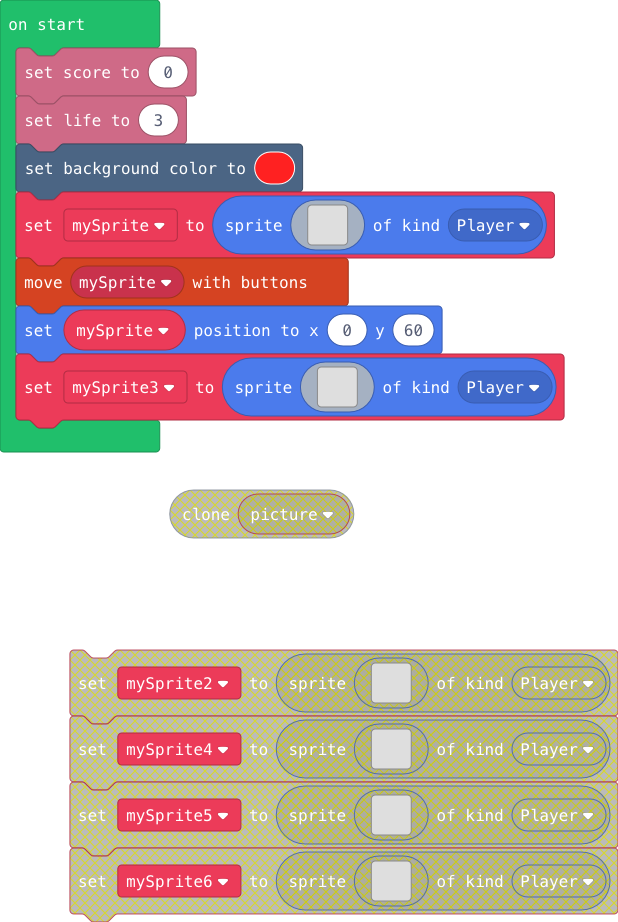
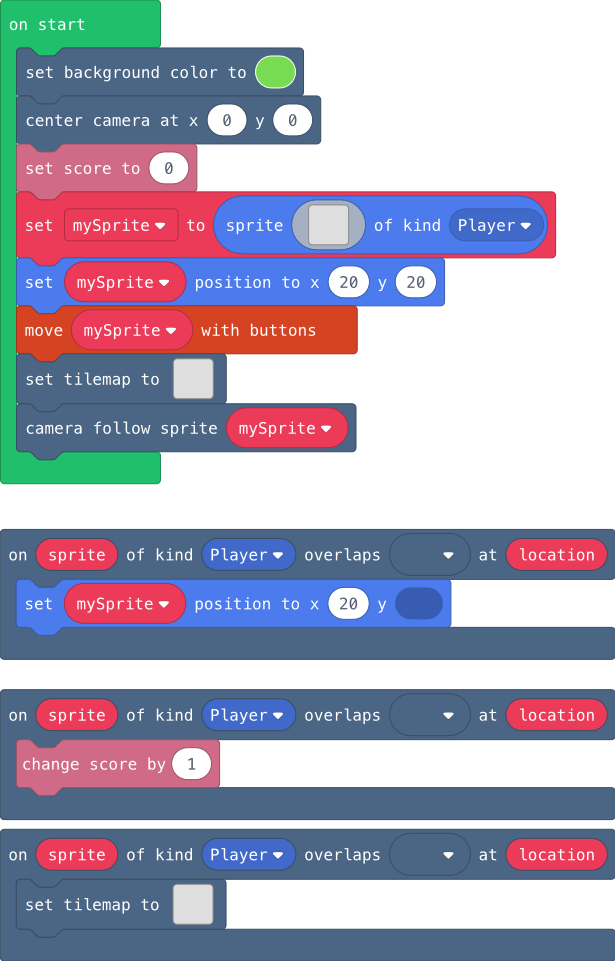
Cracked on with level 1.

diff --git a/main.ts b/main.ts
@@ -1,18 +1,90 @@
+namespace myTiles {
+    //% blockIdentity=images._tile
+    export const tile0 = img`
+. . . . . . . . . . . . . . . . 
+. . . . . . . . . . . . . . . . 
+. . . . . . . . . . . . . . . . 
+. . . . . . . . . . . . . . . . 
+. . . . . . . . . . . . . . . . 
+. . . . . . . . . . . . . . . . 
+. . . . . . . . . . . . . . . . 
+. . . . . . . . . . . . . . . . 
+. . . . . . . . . . . . . . . . 
+. . . . . . . . . . . . . . . . 
+. . . . . . . . . . . . . . . . 
+. . . . . . . . . . . . . . . . 
+. . . . . . . . . . . . . . . . 
+. . . . . . . . . . . . . . . . 
+. . . . . . . . . . . . . . . . 
+. . . . . . . . . . . . . . . . 
+`
+}
+scene.onOverlapTile(SpriteKind.Player, sprites.builtin.brick, function (sprite, location) {
+    mySprite.setPosition(20, 0)
+})
+scene.onOverlapTile(SpriteKind.Player, sprites.castle.shrub, function (sprite, location) {
+    tiles.setTilemap(tiles.createTilemap(
+            hex`1000100000000000000000000000000000000000000000000000000000000000000000000000000000000000000000000000000000000000000000000000000000000000000000000000000000000000000000000000000000000000000000000000000000000000000000000000000000000000000000000000000000000000000000000000000000000000000000000000000000000000000000000000000000000000000000000000000000000000000000000000000000000000000000000000000000000000000000000000000000000000000000000000000000000000000000000000000000000000000000000000000000000000000000000000000000000000`,
+            img`
+. . . . . . . . . . . . . . . . 
+. . . . . . . . . . . . . . . . 
+. . . . . . . . . . . . . . . . 
+. . . . . . . . . . . . . . . . 
+. . . . . . . . . . . . . . . . 
+. . . . . . . . . . . . . . . . 
+. . . . . . . . . . . . . . . . 
+. . . . . . . . . . . . . . . . 
+. . . . . . . . . . . . . . . . 
+. . . . . . . . . . . . . . . . 
+. . . . . . . . . . . . . . . . 
+. . . . . . . . . . . . . . . . 
+. . . . . . . . . . . . . . . . 
+. . . . . . . . . . . . . . . . 
+. . . . . . . . . . . . . . . . 
+. . . . . . . . . . . . . . . . 
+`,
+            [myTiles.tile0],
+            TileScale.Sixteen
+        ))
+})
+scene.onOverlapTile(SpriteKind.Player, sprites.builtin.coral5, function (sprite, location) {
+    info.changeScoreBy(1)
+})
+let mySprite: Sprite = null
+scene.setBackgroundColor(7)
+scene.centerCameraAt(0, 0)
 info.setScore(0)
-info.setLife(3)
-scene.setBackgroundColor(2)
-let mySprite = sprites.create(img`
-. . 6 6 6 6 . . 
-. 6 1 4 4 4 6 . 
-6 d 4 4 4 4 4 6 
-c b b 1 1 4 d c 
-. c b b 4 1 c . 
-. . c c c c . . 
+mySprite = sprites.create(img`
+. . . . . . . . . . . . . . . . . . . . . . . . 
+. . . . . f f f f . . . . . . . . . . . . . . . 
+. . . f f f 2 2 f f f . . . . . . . . . . . . . 
+. . f f f 2 2 2 2 f f f . . . . . . . . . . . . 
+. f f f e e e e e e f f f . . . . . . . . . . . 
+. f f e 2 2 2 2 2 2 e e f . . . . . . . . . . . 
+. f e 2 f f f f f f 2 e f . . . . . . . . . . . 
+. f f f f e e e e f f f f . . . . . . . . . . . 
+f f e f b f 4 4 f b f e f f . . . . . . . . . . 
+f e e 4 1 f d d f 1 4 e e f . . . . . . . . . . 
+. f f f f d d d d d e e f . . . . . . . . . . . 
+f d d d d f 4 4 4 e e f . . . . . . . . . . . . 
+f b b b b f 2 2 2 2 f 4 e . . . . . . . . . . . 
+f b b b b f 2 2 2 2 f d 4 . . . . . . . . . . . 
+. f c c f 4 5 5 4 4 f 4 4 . . . . . . . . . . . 
+. . f f f f f f f f . . . . . . . . . . . . . . 
+. . . . f f . . f f . . . . . . . . . . . . . . 
+. . . . . . . . . . . . . . . . . . . . . . . . 
+. . . . . . . . . . . . . . . . . . . . . . . . 
+. . . . . . . . . . . . . . . . . . . . . . . . 
+. . . . . . . . . . . . . . . . . . . . . . . . 
+. . . . . . . . . . . . . . . . . . . . . . . . 
+. . . . . . . . . . . . . . . . . . . . . . . . 
+. . . . . . . . . . . . . . . . . . . . . . . . 
 `, SpriteKind.Player)
+mySprite.setPosition(20, 20)
 controller.moveSprite(mySprite)
-mySprite.setPosition(0, 60)
-let mySprite3 = sprites.create(img`
-f f f f f f f f f f f f f f f f 
+tiles.setTilemap(tiles.createTilemap(
+            hex`1000100000000000000000000000000000000000000000000000000000000000000000000000000000000000000000000000000001010101010101010101010100000000000000000000000000000001000000000000000000000000000000000000000000000500000000000000000000000000000000000000000000000000000000000000000000000000000000000000000001010101010101000001010101000000000000000000010000000000000000000000000000000100000000000000000000000000000000000000010000000000000002000000000000000100000000000000000000000000000000000000000000000000000000000000000000000000`,
+            img`
 . . . . . . . . . . . . . . . . 
 . . . . . . . . . . . . . . . . 
 . . . . . . . . . . . . . . . . 
@@ -27,5 +99,10 @@ f f f f f f f f f f f f f f f f
 . . . . . . . . . . . . . . . . 
 . . . . . . . . . . . . . . . . 
 . . . . . . . . . . . . . . . . 
-f f f f f f f f f f f f f f f f 
-`, SpriteKind.Player)
+. . . . . . . . . . . . . . . . 
+. . . . . . . . . . . . . . . . 
+`,
+            [myTiles.tile0,sprites.builtin.brick,sprites.castle.shrub,sprites.builtin.crowd8,sprites.dungeon.buttonPink,sprites.builtin.coral5],
+            TileScale.Sixteen
+        ))
+scene.cameraFollowSprite(mySprite)
